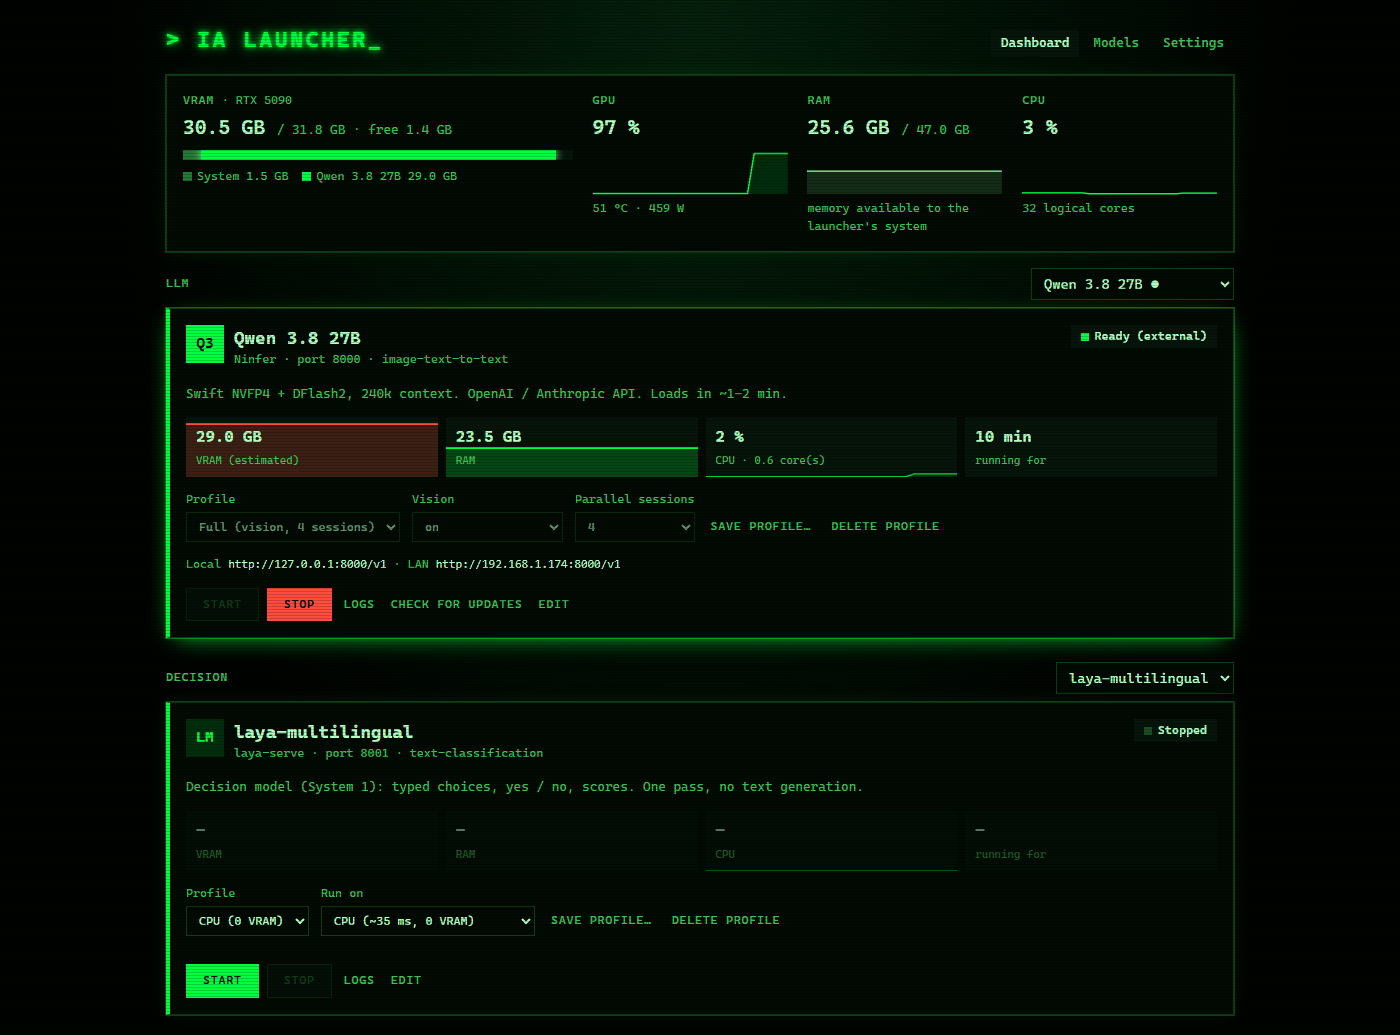
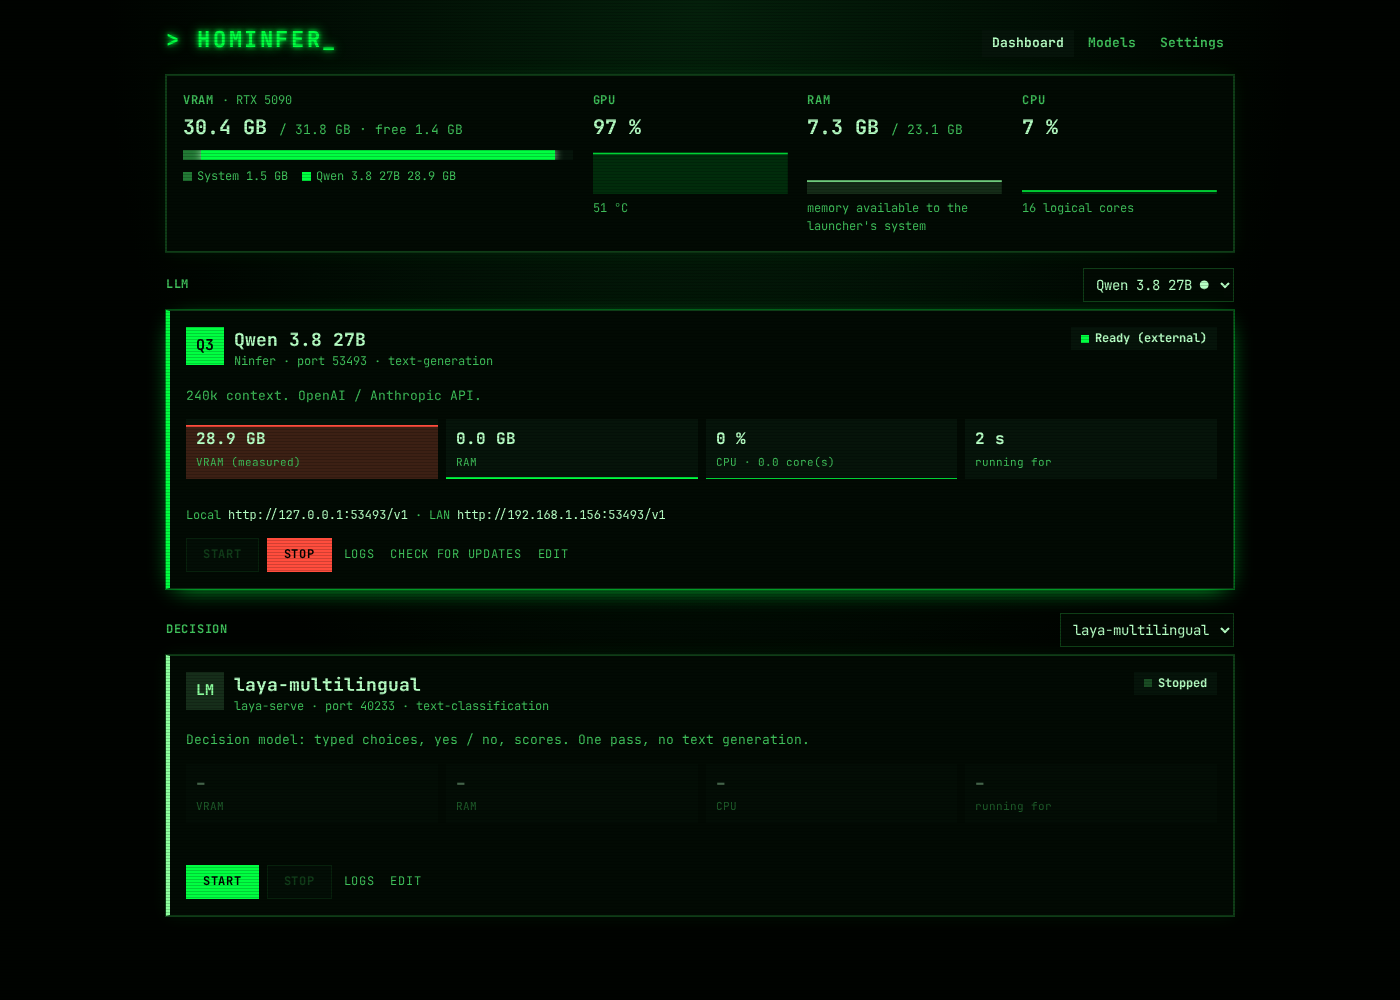
Regenerate screenshots with the Hominfer header
Extend scripts/screenshots.py to all seven docs images (dashboard, models, settings, first-run included) with a demo state: fake RTX 5090 via a PATH'd nvidia-smi, fake external ninfer-serve process, fake installed engines. Also renames the .ia_meta.json download metadata file to .hominfer_meta.json (legacy name still read by the library).

diff --git a/scripts/screenshots.py b/scripts/screenshots.py
@@ -1,9 +1,9 @@
-"""Capture the screenshots referenced by docs/how-to.md (docs/images/).
+"""Capture the screenshots referenced by README.md and docs/how-to.md (docs/images/).
 
 Playwright drives a headless Chromium installed in WSL. The launcher runs as a demo
 instance: config, models folder and port live in a temp dir, the user's setup is untouched.
 A fake downloaded Qwen3-TTS repository (sparse weights + its meta) makes the library show
-a TTS file.
+a TTS file, and a fake external ninfer-serve process makes the dashboard show a ready LLM.
 
 Setup (once):
     uv venv venv-shots
@@ -24,6 +24,38 @@ ROOT = Path(__file__).resolve().parent.parent
 OUT = ROOT / "docs" / "images"
 REPO = "Qwen/Qwen3-TTS-12Hz-1.7B-CustomVoice"
 WIDTH = 1400  # same width as the existing screenshots
+FAKE_SMI = """#!/bin/sh
+# Fakes an RTX 5090: VRAM jumps when the demo's ninfer-serve process is seen
+case "$1" in
+    --query-gpu*)
+        if [ -n "$(pgrep -f 'hominfer-shots/ninfer-serve')" ]; then
+            echo "NVIDIA GeForce RTX 5090, 31128, 32608, 97, 51, 459.00 W, 12.0"
+        else
+            echo "NVIDIA GeForce RTX 5090, 1536, 32608, 1, 37, 65.00 W, 12.0"
+        fi
+        ;;
+    *) pgrep -f 'hominfer-shots/ninfer-serve' ;;
+esac
+"""
+
+FAKE_SERVE = """#!/usr/bin/env python3
+import sys
+from http.server import BaseHTTPRequestHandler, HTTPServer
+
+class H(BaseHTTPRequestHandler):
+    def do_GET(self):
+        body = b'{"ok": true}'
+        self.send_response(200)
+        self.send_header("Content-Type", "application/json")
+        self.send_header("Content-Length", str(len(body)))
+        self.end_headers()
+        self.wfile.write(body)
+
+    def log_message(self, *a):
+        pass
+
+HTTPServer(("127.0.0.1", int(sys.argv[2])), H).serve_forever()
+"""
 
 
 def free_port():
@@ -34,35 +66,84 @@ def free_port():
     return p
 
 
-def demo_setup():
-    """Temp config + models dir with the engines the demo pretends to have and a fake TTS download."""
-    tmp = Path("/tmp/ia-shots")
-    shutil.rmtree(tmp, ignore_errors=True)
-    cfg, models = tmp / "config", tmp / "models"
+def sparse(path, gb):
+    with path.open("wb") as w:
+        os.ftruncate(w.fileno(), int(gb * 2**30))  # sparse: almost no disk
+
+
+def demo_setup(tmp):
+    """Config + models dir + a fake home: the engines the demo pretends to have installed."""
+    cfg, home = tmp / "config", tmp / "home"
+    models = home / "hominfer_models"
     cfg.mkdir(parents=True)
-    models.mkdir()
+    models.mkdir(parents=True)
     catalog = json.loads((ROOT / "catalog" / "catalog.json").read_text())
     (cfg / "engines.json").write_text(json.dumps(
-        {k: catalog[k]["engine"] for k in ("vllm", "vllm-omni")}, indent=2) + "\n")
+        {k: catalog[k]["engine"] for k in ("vllm", "vllm-omni", "ninfer", "laya")}, indent=2) + "\n")
     (cfg / "models.json").write_text("{}\n")
     (cfg / "settings.json").write_text(json.dumps(
-        {"lang": "en", "theme": "cyber", "models_dir": str(models)}) + "\n")
+        {"lang": "en", "theme": "cyber", "models_dir": "~/hominfer_models"}) + "\n")
+    # vllm-omni stays "not installed": the HF verdict suggests installing it
+    for p in ("llm/vllm/vllm-serve.sh", "llm/ninfer/build/apps/ninfer-serve",
+              "llm/laya/.venv/bin/python", "llm/laya/.venv/bin/laya-serve"):
+        f = home / p
+        f.parent.mkdir(parents=True, exist_ok=True)
+        f.touch()
+    return cfg, models
+
+
+def add_tts_repo(models):
+    """A fake downloaded Qwen3-TTS repository so the library shows a TTS file."""
     repo_dir = models / REPO.replace("/", "--")
     repo_dir.mkdir()
-    with (repo_dir / "model.safetensors").open("wb") as w:
-        os.ftruncate(w.fileno(), int(4.2 * 2**30))  # sparse: 4.2 GB, almost no disk
+    sparse(repo_dir / "model.safetensors", 4.2)
     (repo_dir / "config.json").write_text('{"architectures": ["Qwen3TTSForConditionalGeneration"]}\n')
-    (repo_dir / ".ia_meta.json").write_text(json.dumps({
+    (repo_dir / ".hominfer_meta.json").write_text(json.dumps({
         "repo": REPO, "sha": "0c0e3051f", "modified": "2026-01-29T12:00:00", "task": "text-to-speech",
         "files": {"model.safetensors": {"downloaded": time.strftime("%Y-%m-%dT%H:%M:%S")}}}, indent=2) + "\n")
-    return tmp, cfg, models
 
 
-def start_launcher(cfg, models, port):
-    env = dict(os.environ, HOMINFER_CONFIG_DIR=str(cfg), HOMINFER_MODELS_DIR=str(models),
+def add_dashboard_models(cfg, models, port):
+    """The two models of the dashboard: an LLM and a decision model."""
+    llm_file = models / "Swift-Qwen3.8-27B-OrcaRouter-NVFP4.ninfer"
+    sparse(llm_file, 26)
+    (cfg / "models.json").write_text(json.dumps({
+        "Qwen38_27B": {
+            "name": "Qwen 3.8 27B", "kind": "llm", "engine": "ninfer", "file": str(llm_file),
+            "port": port, "task": "text-generation", "desc": "240k context. OpenAI / Anthropic API."},
+        "laya_multilingual": {
+            "name": "laya-multilingual", "kind": "decision", "engine": "laya",
+            "port": free_port(), "task": "text-classification",
+            "desc": "Decision model: typed choices, yes / no, scores. One pass, no text generation."}},
+    indent=2) + "\n")
+    return llm_file
+
+
+def fake_gpu(tmp):
+    smi = tmp / "bin" / "nvidia-smi"
+    smi.parent.mkdir(parents=True, exist_ok=True)
+    smi.write_text(FAKE_SMI)
+    smi.chmod(0o755)
+    return str(tmp / "bin")
+
+
+def fake_external(llm_file, port, tmp):
+    """A process named ninfer-serve whose argv carries the model file: seen as running, external."""
+    serve = tmp / "ninfer-serve"
+    serve.write_text(FAKE_SERVE)
+    serve.chmod(0o755)
+    return subprocess.Popen([str(serve), str(llm_file), str(port)],
+                            stdout=subprocess.DEVNULL, stderr=subprocess.DEVNULL)
+
+
+def start_launcher(cfg, port, log, extra_path=""):
+    env = dict(os.environ, HOME=str(Path(cfg).parent / "home"), HOMINFER_CONFIG_DIR=str(cfg),
                HOMINFER_PORT=str(port), HOMINFER_HOST="127.0.0.1")
-    proc = subprocess.Popen([str(ROOT / "venv-hominfer" / "bin" / "python"), "-m", "hominfer"],
-                            cwd=ROOT, env=env, stdout=subprocess.DEVNULL, stderr=subprocess.DEVNULL)
+    if extra_path:
+        env["PATH"] = extra_path + os.pathsep + env["PATH"]
+    with log.open("w") as err:
+        proc = subprocess.Popen([str(ROOT / "venv-hominfer" / "bin" / "python"), "-m", "hominfer"],
+                                cwd=ROOT, env=env, stdout=subprocess.DEVNULL, stderr=err)
     base = f"http://127.0.0.1:{port}"
     for _ in range(150):
         try:
@@ -71,47 +152,83 @@ def start_launcher(cfg, models, port):
         except Exception:
             time.sleep(0.2)
     proc.kill()
-    raise SystemExit("the launcher did not start")
+    raise SystemExit(f"the launcher did not start:\n{log.read_text()}")
 
 
-def shoot(base):
-    from playwright.sync_api import sync_playwright
-    with sync_playwright() as pw:
-        browser = pw.chromium.launch(headless=True)
-        page = browser.new_page()
-        page.set_viewport_size({"width": WIDTH, "height": 1000})
+def shoot(browser, proc, base, cfg, models, tmp):
+    """Returns (proc, base) after the restart in (5)."""
+    page = browser.new_page()
+    page.set_viewport_size({"width": WIDTH, "height": 1000})
 
-        # (a) Hugging Face verdict: the TTS repository and the vLLM-Omni install suggestion
-        page.goto(base + "/models")
-        page.fill("#hfRepo", REPO)
-        page.click("#hfForm button")
-        page.wait_for_selector("#hfFiles button[data-install='vllm-omni']")
-        page.wait_for_timeout(400)
-        page.locator("section.panel:has(#hfForm)").screenshot(path=str(OUT / "hf-tts-verdict.png"))
+    # (1) First start: no model yet
+    page.goto(base + "/")
+    page.wait_for_selector("text=No model yet")
+    page.wait_for_timeout(400)
+    page.screenshot(path=str(OUT / "first-run.png"), full_page=True)
 
-        # (b) Settings: the engine catalog with vLLM-Omni and its install button
-        page.goto(base + "/settings")
-        page.wait_for_selector("#engTable tbody tr:has-text('vLLM-Omni')")
-        page.wait_for_timeout(400)
-        page.locator("#enginesSec").screenshot(path=str(OUT / "engines.png"))
+    # (2) Hugging Face verdict: the TTS repository and the vLLM-Omni install suggestion
+    add_tts_repo(models)
+    page.goto(base + "/models")
+    page.fill("#hfRepo", REPO)
+    page.click("#hfForm button")
+    page.wait_for_selector("#hfFiles button[data-install='vllm-omni']")
+    page.wait_for_timeout(400)
+    page.locator("section.panel:has(#hfForm)").screenshot(path=str(OUT / "hf-tts-verdict.png"))
 
-        # (c) Library: the model form, engine prefilled for a TTS file
-        page.goto(base + "/models")
-        page.wait_for_selector("#libTable button[data-use]")
-        page.click("#libTable button[data-use]")
-        page.wait_for_function("document.querySelector('#modelDlg').open")
-        page.wait_for_timeout(400)
-        page.locator("#modelDlg").screenshot(path=str(OUT / "model-form.png"))
-        page.close()
-        browser.close()
+    # (3) Settings: the engine catalog with vLLM-Omni and its install button
+    page.goto(base + "/settings")
+    page.wait_for_selector("#engTable tbody tr:has-text('vLLM-Omni')")
+    page.wait_for_timeout(400)
+    page.locator("#enginesSec").screenshot(path=str(OUT / "engines.png"))
+
+    # (4) Library: the model form, engine prefilled for a TTS file
+    page.goto(base + "/models")
+    page.wait_for_selector("#libTable button[data-use]")
+    page.click("#libTable button[data-use]")
+    page.wait_for_function("document.querySelector('#modelDlg').open")
+    page.wait_for_timeout(400)
+    page.locator("#modelDlg").screenshot(path=str(OUT / "model-form.png"))
+    page.close()
+
+    # (5) The two models: a fake external ninfer-serve for the LLM, then the full views.
+    # models.json is only read at startup (the page edits it through the API), so restart.
+    llm_port = free_port()
+    llm_file = add_dashboard_models(cfg, models, llm_port)
+    proc.terminate()
+    proc.wait(timeout=10)
+    proc, base = start_launcher(cfg, free_port(), tmp / "launcher2.log", fake_gpu(tmp))
+    serve = fake_external(llm_file, llm_port, tmp)
+    time.sleep(3)  # a poll cycle so the snapshot sees the process
+    page = browser.new_page()
+    page.set_viewport_size({"width": WIDTH, "height": 1000})
+    page.goto(base + "/")
+    page.wait_for_selector("text=Ready (external)")
+    page.wait_for_timeout(400)
+    page.screenshot(path=str(OUT / "dashboard.png"), full_page=True)
+    page.goto(base + "/models")
+    page.wait_for_selector("#libTable tr:has-text('Qwen3-TTS')")
+    page.wait_for_timeout(400)
+    page.screenshot(path=str(OUT / "models.png"), full_page=True)
+    page.goto(base + "/settings")
+    page.wait_for_selector("#engTable tbody tr:has-text('vLLM-Omni')")
+    page.wait_for_timeout(400)
+    page.screenshot(path=str(OUT / "settings.png"), full_page=True)
+    page.close()
+    serve.terminate()
+    serve.wait(timeout=5)
+    return proc, base
 
 
 def main():
-    tmp, cfg, models = demo_setup()
-    port = free_port()
-    proc, base = start_launcher(cfg, models, port)
+    tmp = Path("/tmp/hominfer-shots")
+    shutil.rmtree(tmp, ignore_errors=True)
+    tmp.mkdir(parents=True)
+    cfg, models = demo_setup(tmp)
+    proc, base = start_launcher(cfg, free_port(), tmp / "launcher.log", fake_gpu(tmp))
+    from playwright.sync_api import sync_playwright
     try:
-        shoot(base)
+        with sync_playwright() as pw:
+            proc, base = shoot(pw.chromium.launch(headless=True), proc, base, cfg, models, tmp)
     finally:
         proc.terminate()
         proc.wait(timeout=10)

diff --git a/hominfer/services/library.py b/hominfer/services/library.py
@@ -10,7 +10,7 @@ from ..errors import LaunchError
 from ..i18n import tr
 from ..infra import huggingface as hf
 from ..infra.files import size_of
-from .downloads import META
+from .downloads import LEGACY_META, META
 
 WEIGHTS = (".gguf", ".safetensors", ".ninfer", ".bin", ".pt", ".pth", ".onnx")
 HF_CACHE = "hf"  # engines fetching their own weights keep them in <models dir>/hf
@@ -67,7 +67,8 @@ class Library:
 
     def _entry(self, p):
         """A folder downloaded from the page (with its META) or a file / folder put by hand."""
-        meta = json.loads((p / META).read_text()) if (p / META).exists() else None
+        meta_f = p / META if (p / META).exists() else p / LEGACY_META
+        meta = json.loads(meta_f.read_text()) if meta_f.exists() else None
         files = [p] if p.is_file() else [f for f in sorted(p.rglob("*"))
                                           if f.is_file() and f.name.endswith(WEIGHTS) and ".cache" not in f.parts]
 

diff --git a/hominfer/services/downloads.py b/hominfer/services/downloads.py
@@ -10,7 +10,8 @@ from ..infra import huggingface as hf
 from ..infra.files import size_of, tail
 from .jobs import Jobs
 
-META = ".ia_meta.json"  # next to downloaded files: repository, commit, dates
+META = ".hominfer_meta.json"  # next to downloaded files: repository, commit, dates
+LEGACY_META = ".ia_meta.json"  # pre-rename
 FREE_MARGIN = 5 * 2**30
 
 
